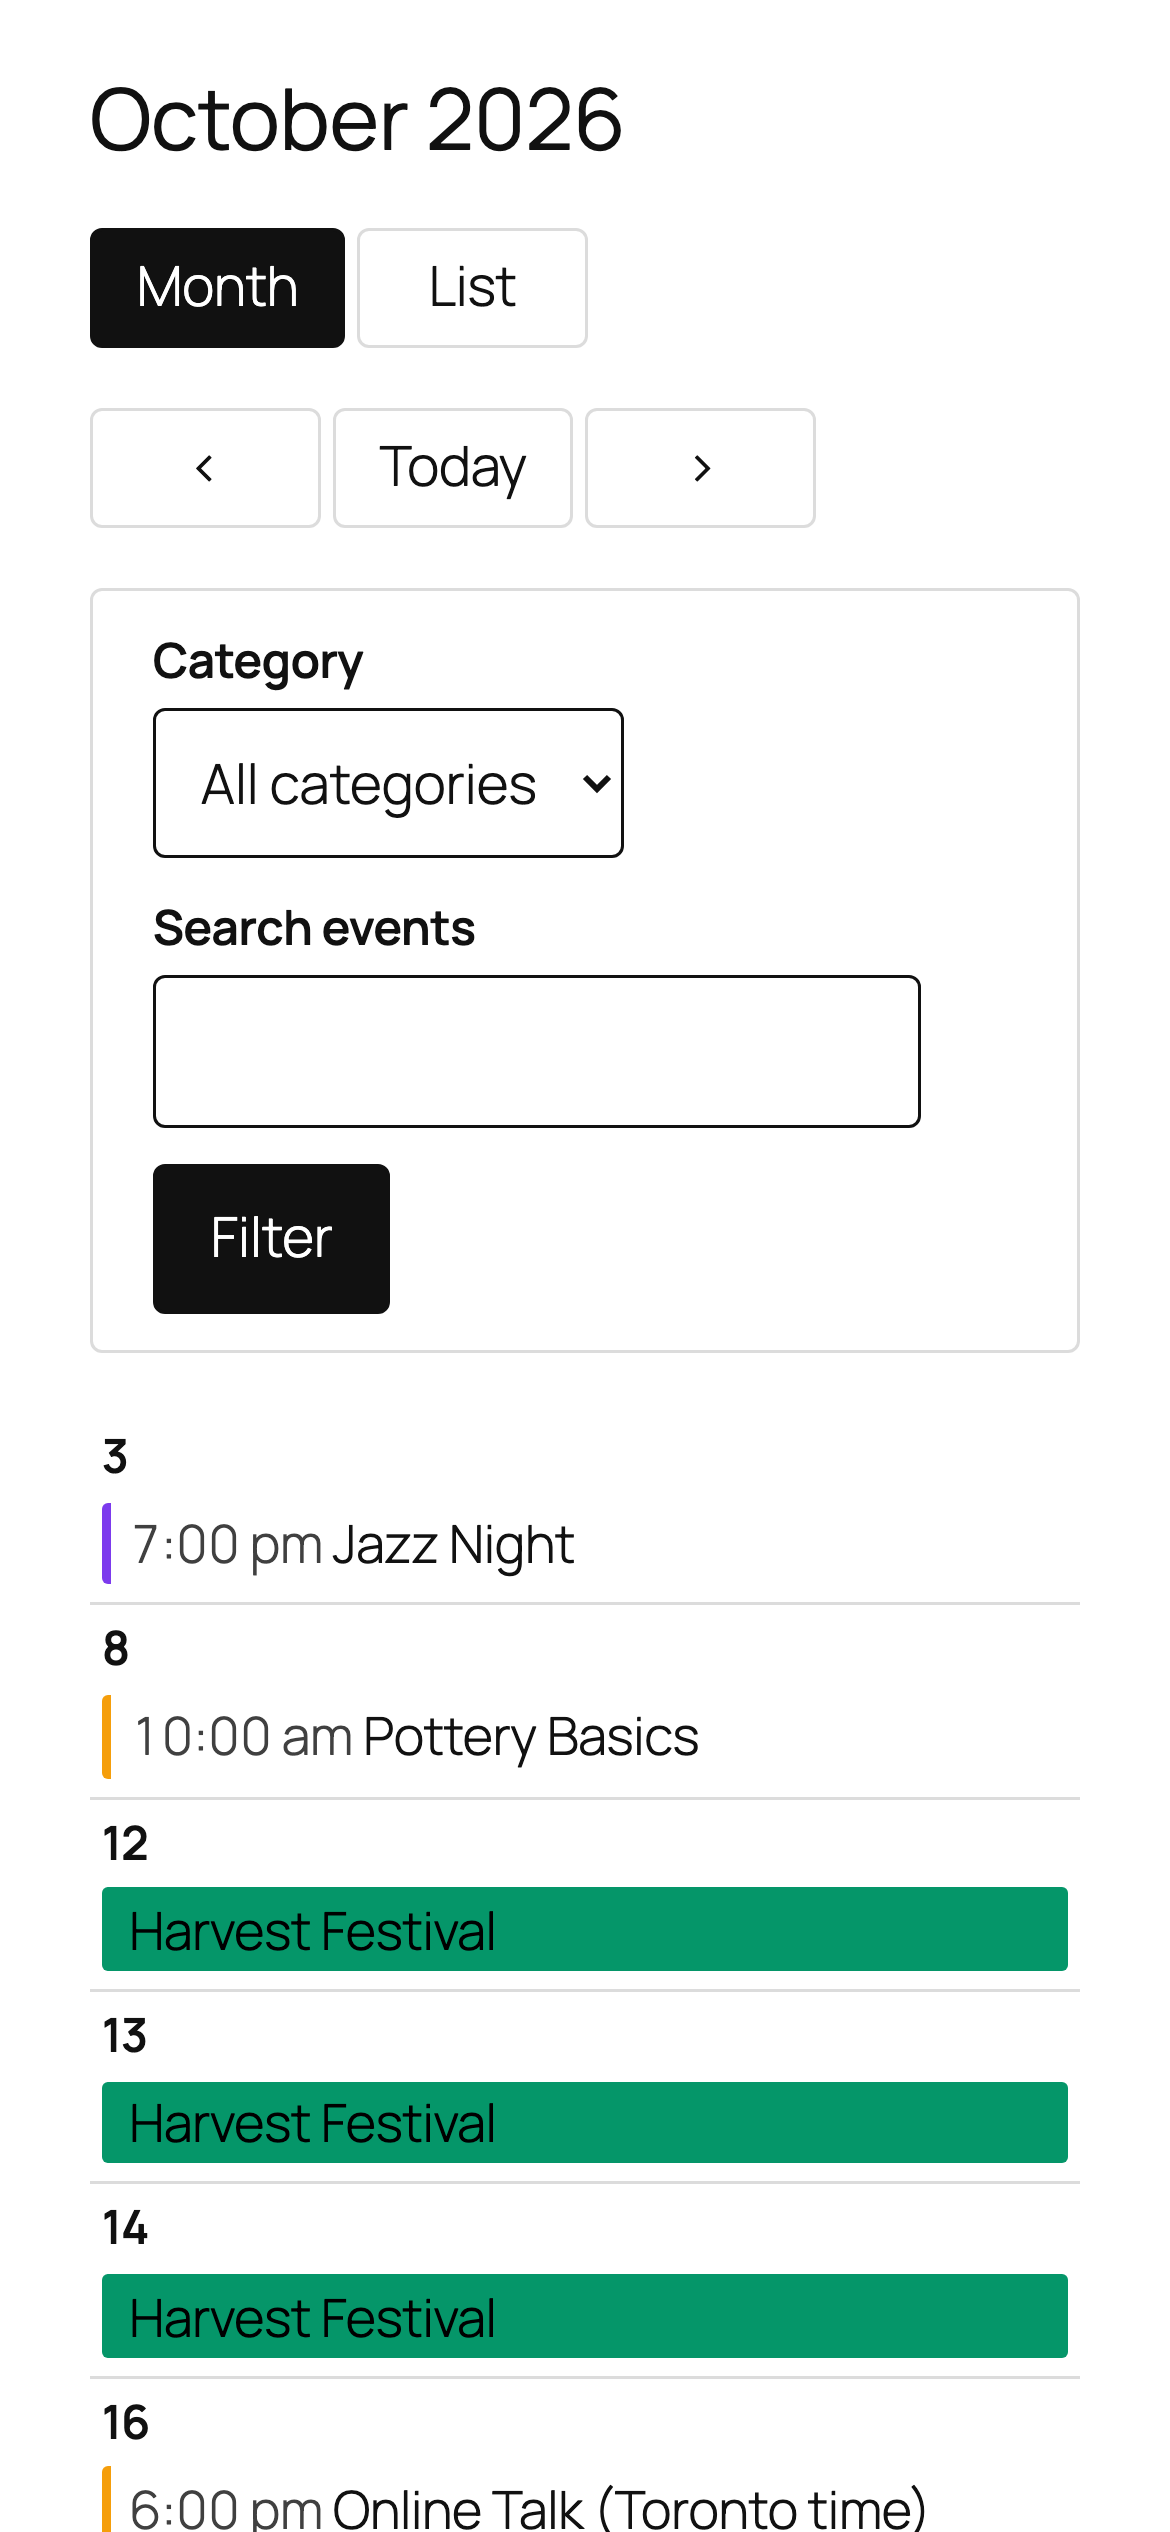
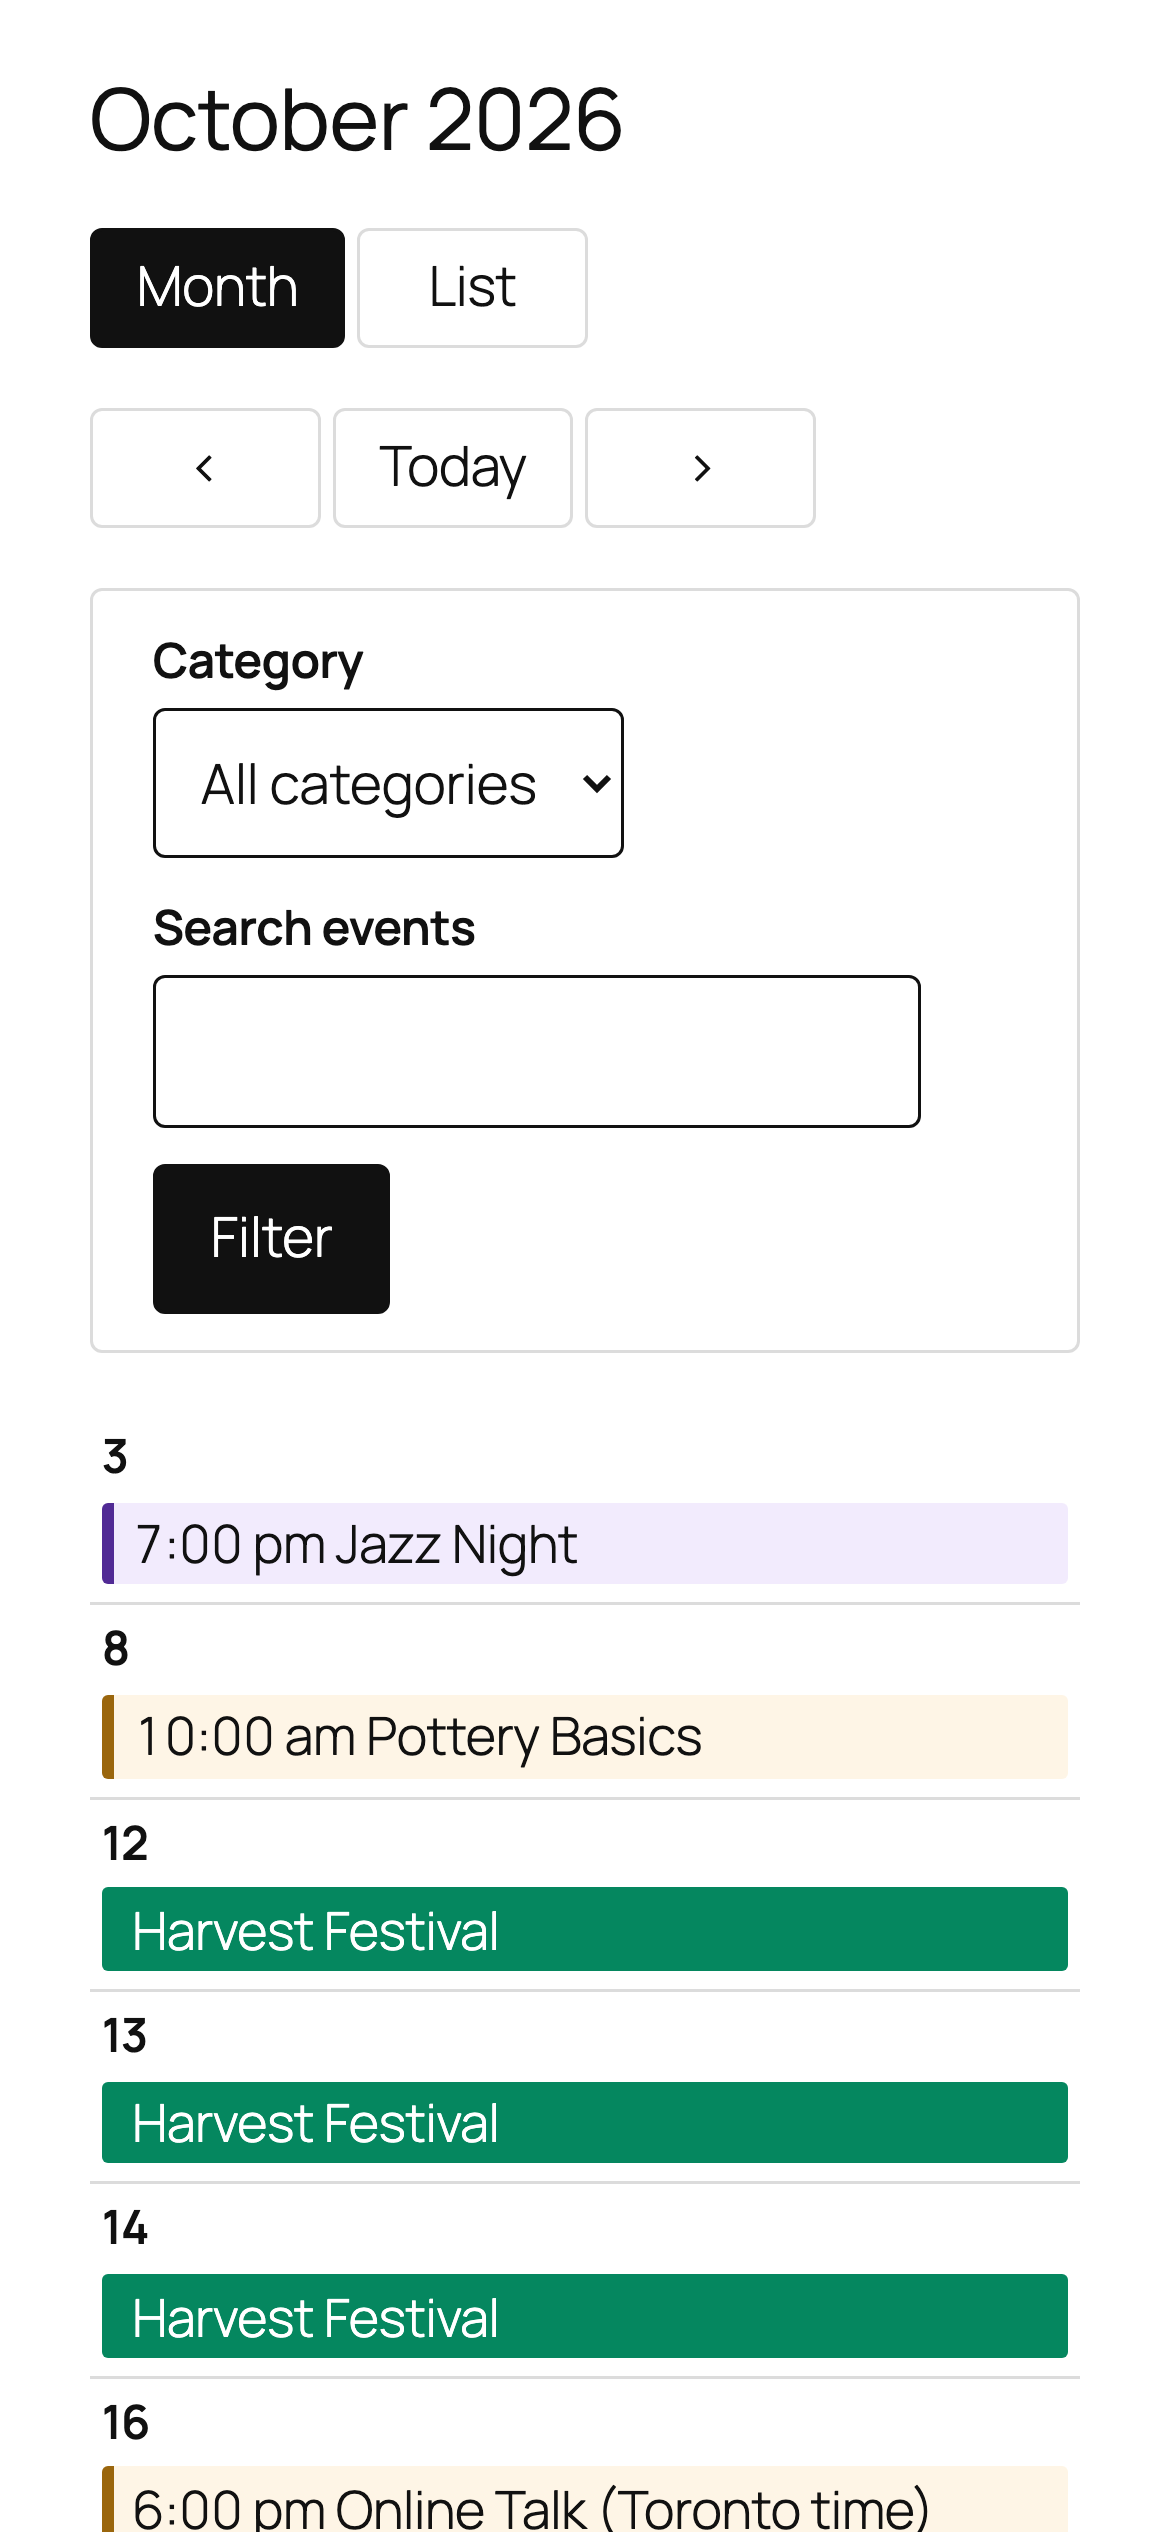
Make category colours readable on the calendar
The contrast picker chose black or white by WCAG 2 ratio alone, so mid-tones
like #059669 got black text (5.6:1, a pass) that reads as muddy at calendar
sizes. And on timed events the category was shown only by a 3px stripe in
the raw colour, so light colours like amber (2.2:1 on white) failed non-text
contrast (WCAG 1.4.11).

- Light colours keep black text; everything else gets white text, with the
  fill darkened (same hue) until white reaches 4.5:1. The legend uses the
  same fill so it matches. A sweep test checks every 12-bit colour.
- Stripes on timed events and list cards mix the colour toward the text
  colour, which gets 3:1 in light and dark themes; timed events also get a
  faint tint of their category colour.
- Event times no longer render at 80% opacity.
- Screenshots recaptured.

diff --git a/src/blocks/calendar/style.scss b/src/blocks/calendar/style.scss
@@ -203,8 +203,9 @@
 		margin-block-end: 2px;
 		padding: 0.15em 0.35em;
 		overflow: hidden;
-		border-inline-start: 3px solid var(--oe-event-bg, var(--oe-accent));
+		border-inline-start: 4px solid base.$event-line;
 		border-radius: 2px;
+		background: color-mix(in srgb, var(--oe-event-bg, transparent) 10%, transparent);
 		font-size: 0.8em;
 		line-height: 1.3;
 		text-decoration: none;
@@ -213,6 +214,7 @@
 		color: inherit;
 
 		&.is-all-day {
+			border-inline-start-color: var(--oe-event-bg, var(--oe-accent));
 			background: var(--oe-event-bg, var(--oe-accent));
 			color: var(--oe-event-fg, var(--oe-on-accent));
 		}
@@ -225,7 +227,6 @@
 
 	&__event-time {
 		font-variant-numeric: tabular-nums;
-		opacity: 0.8;
 	}
 
 	&__more {

diff --git a/src/blocks/shared/_base.scss b/src/blocks/shared/_base.scss
@@ -23,3 +23,9 @@
 	white-space: nowrap;
 	border: 0;
 }
+
+// Category stripes are the only sign of the category, so they need 3:1
+// (WCAG 1.4.11). Mixing toward the text colour gets there for light colours
+// like amber, in light and dark themes alike. Used where --oe-event-bg is set,
+// since a custom property would resolve it on the container instead.
+$event-line: color-mix(in srgb, var(--oe-event-bg, var(--oe-accent)) 60%, currentcolor);

diff --git a/src/blocks/shared/_card.scss b/src/blocks/shared/_card.scss
@@ -1,3 +1,5 @@
+@use "base";
+
 .oe-event-card {
 	display: grid;
 	grid-template-columns: 3.5rem 1fr;
@@ -14,7 +16,7 @@
 		align-items: center;
 		padding-block: 0.35em;
 		border-radius: var(--oe-radius);
-		border-top: 4px solid var(--oe-event-bg, var(--oe-accent));
+		border-top: 4px solid base.$event-line;
 		background: var(--oe-surface);
 		line-height: 1.1;
 	}

diff --git a/inc/Frontend/CategoryColors.php b/inc/Frontend/CategoryColors.php
@@ -43,7 +43,7 @@ final class CategoryColors {
 	 */
 	public static function style_for_term( int $term_id ): string {
 		$color = self::color( $term_id );
-		return $color ? sprintf( '--oe-event-bg:%s;--oe-event-fg:%s;', $color, self::contrast( $color ) ) : '';
+		return $color ? self::style( $color ) : '';
 	}
 
 	/**
@@ -57,7 +57,7 @@ final class CategoryColors {
 		foreach ( $terms as $term ) {
 			$color = self::color( $term->term_id );
 			if ( $color ) {
-				return sprintf( '--oe-event-bg:%s;--oe-event-fg:%s;', $color, self::contrast( $color ) );
+				return self::style( $color );
 			}
 		}
 		return '';
@@ -88,19 +88,66 @@ final class CategoryColors {
 	}
 
 	/**
-	 * Black or white, whichever has higher WCAG contrast against the colour.
+	 * Fill colour for labels in a category's colour. Light colours keep black
+	 * text. Others get white text and are darkened, keeping the hue, until
+	 * white reaches 4.5:1. WCAG 2 rates black on mid-tones (e.g. #059669, 5.6:1)
+	 * as passing, but at small sizes it reads as muddy, so mid-tones go dark.
+	 */
+	public static function fill( string $hex ): string {
+		$rgb = self::rgb( $hex );
+		for ( $step = 0; $step <= 20; $step++ ) {
+			$mixed = array_map( static fn( int $c ): int => (int) round( $c * ( 1 - $step / 20 ) ), $rgb );
+			if ( 0 === $step && self::ratio( self::luminance( $mixed ), 0.0 ) >= self::LIGHT ) {
+				break;
+			}
+			if ( self::ratio( 1.0, self::luminance( $mixed ) ) >= 4.5 ) {
+				$rgb = $mixed;
+				break;
+			}
+		}
+		return vsprintf( '#%02x%02x%02x', $rgb );
+	}
+
+	/**
+	 * Text colour for a fill() colour: black on light colours, otherwise white.
 	 */
 	public static function contrast( string $hex ): string {
+		return self::ratio( self::luminance( self::rgb( $hex ) ), 0.0 ) >= self::LIGHT ? '#000000' : '#ffffff';
+	}
+
+	/**
+	 * Black-text contrast at or above which a colour counts as light.
+	 */
+	private const LIGHT = 8.0;
+
+	private static function style( string $color ): string {
+		$fill = self::fill( $color );
+		return sprintf( '--oe-event-bg:%s;--oe-event-fg:%s;', $fill, self::contrast( $fill ) );
+	}
+
+	/**
+	 * @return int[] Red, green, blue (0-255).
+	 */
+	private static function rgb( string $hex ): array {
 		$hex = ltrim( $hex, '#' );
 		if ( 3 === strlen( $hex ) ) {
 			$hex = $hex[0] . $hex[0] . $hex[1] . $hex[1] . $hex[2] . $hex[2];
 		}
-		$channel = static function ( string $pair ): float {
-			$c = hexdec( $pair ) / 255;
+		return array_map( 'hexdec', str_split( substr( $hex, 0, 6 ), 2 ) );
+	}
+
+	/**
+	 * @param int[] $rgb Red, green, blue (0-255).
+	 */
+	private static function luminance( array $rgb ): float {
+		$channel = static function ( int $value ): float {
+			$c = $value / 255;
 			return $c <= 0.03928 ? $c / 12.92 : ( ( $c + 0.055 ) / 1.055 ) ** 2.4;
 		};
-		$luminance = 0.2126 * $channel( substr( $hex, 0, 2 ) ) + 0.7152 * $channel( substr( $hex, 2, 2 ) ) + 0.0722 * $channel( substr( $hex, 4, 2 ) );
-		// Contrast with black is (L + 0.05) / 0.05; with white 1.05 / (L + 0.05). Equal at L ≈ 0.179.
-		return $luminance > 0.179 ? '#000000' : '#ffffff';
+		return 0.2126 * $channel( $rgb[0] ) + 0.7152 * $channel( $rgb[1] ) + 0.0722 * $channel( $rgb[2] );
+	}
+
+	private static function ratio( float $lighter, float $darker ): float {
+		return ( max( $lighter, $darker ) + 0.05 ) / ( min( $lighter, $darker ) + 0.05 );
 	}
 }

diff --git a/tests/phpunit/integration/OutputTest.php b/tests/phpunit/integration/OutputTest.php
@@ -237,17 +237,38 @@ final class OutputTest extends TestCase {
 	/**
 	 * @dataProvider colors
 	 */
-	public function test_category_colour_text_contrast( string $background, string $text ): void {
-		$this->assertSame( $text, CategoryColors::contrast( $background ) );
+	public function test_category_colour_fill_and_text( string $color, string $fill, string $text ): void {
+		$this->assertSame( $fill, CategoryColors::fill( $color ) );
+		$this->assertSame( $text, CategoryColors::contrast( $fill ) );
 	}
 
 	public static function colors(): array {
 		return array(
-			'yellow' => array( '#f59e0b', '#000000' ),
-			'purple' => array( '#7c3aed', '#ffffff' ),
-			'white'  => array( '#fff', '#000000' ),
-			'navy'   => array( '#1e3a8a', '#ffffff' ),
+			'amber keeps black text'         => array( '#f59e0b', '#f59e0b', '#000000' ),
+			'purple keeps white text'        => array( '#7c3aed', '#7c3aed', '#ffffff' ),
+			'white'                          => array( '#fff', '#ffffff', '#000000' ),
+			'navy'                           => array( '#1e3a8a', '#1e3a8a', '#ffffff' ),
+			'mid green darkens for white'    => array( '#059669', '#05875f', '#ffffff' ),
+			'mid grey darkens for white'     => array( '#808080', '#737373', '#ffffff' ),
 		);
+	}
+
+	public function test_every_category_fill_meets_aa_for_its_text(): void {
+		$luminance = static function ( string $hex ): float {
+			$channel = static function ( string $pair ): float {
+				$c = hexdec( $pair ) / 255;
+				return $c <= 0.03928 ? $c / 12.92 : ( ( $c + 0.055 ) / 1.055 ) ** 2.4;
+			};
+			$hex = ltrim( $hex, '#' );
+			return 0.2126 * $channel( substr( $hex, 0, 2 ) ) + 0.7152 * $channel( substr( $hex, 2, 2 ) ) + 0.0722 * $channel( substr( $hex, 4, 2 ) );
+		};
+		for ( $i = 0; $i < 4096; $i += 7 ) {
+			$color = sprintf( '#%x%x%x', $i >> 8, ( $i >> 4 ) & 15, $i & 15 );
+			$fill  = CategoryColors::fill( $color );
+			$a     = $luminance( $fill );
+			$b     = $luminance( CategoryColors::contrast( $fill ) );
+			$this->assertGreaterThanOrEqual( 4.5, ( max( $a, $b ) + 0.05 ) / ( min( $a, $b ) + 0.05 ), $color );
+		}
 	}
 
 	public function test_event_details_show_coloured_category_badges(): void {

diff --git a/inc/Frontend/CalendarView.php b/inc/Frontend/CalendarView.php
@@ -480,7 +480,7 @@ final class CalendarView {
 		foreach ( $terms as $term ) {
 			$html .= sprintf(
 				'<li><span class="oe-legend__swatch" style="background:%s" aria-hidden="true"></span><a href="%s"' . ( $filter_links ? ' rel="nofollow" data-wp-on--click="actions.navigate"' : '' ) . '>%s</a></li>',
-				esc_attr( CategoryColors::color( $term->term_id ) ),
+				esc_attr( CategoryColors::fill( CategoryColors::color( $term->term_id ) ) ),
 				esc_url(
 					$filter_links
 						? self::url(
